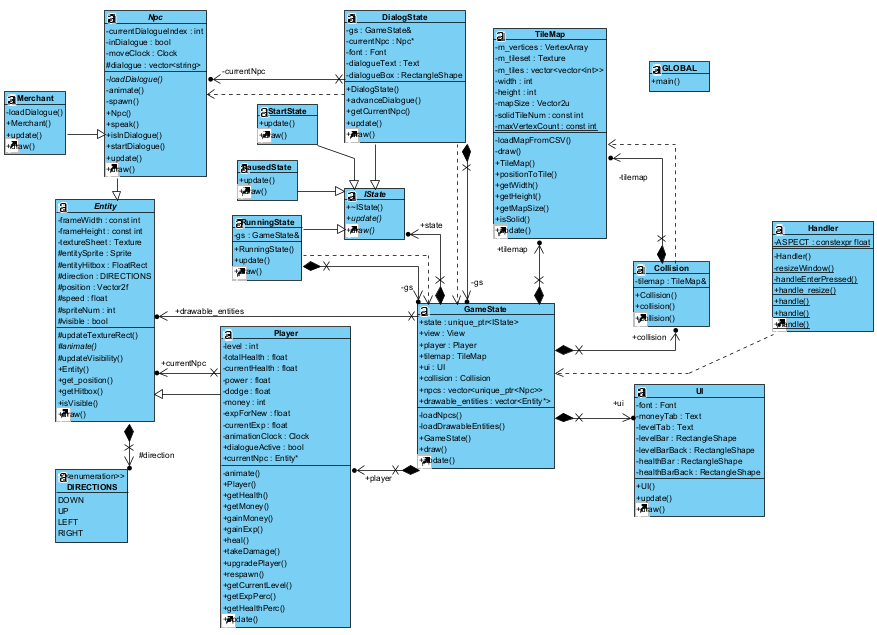
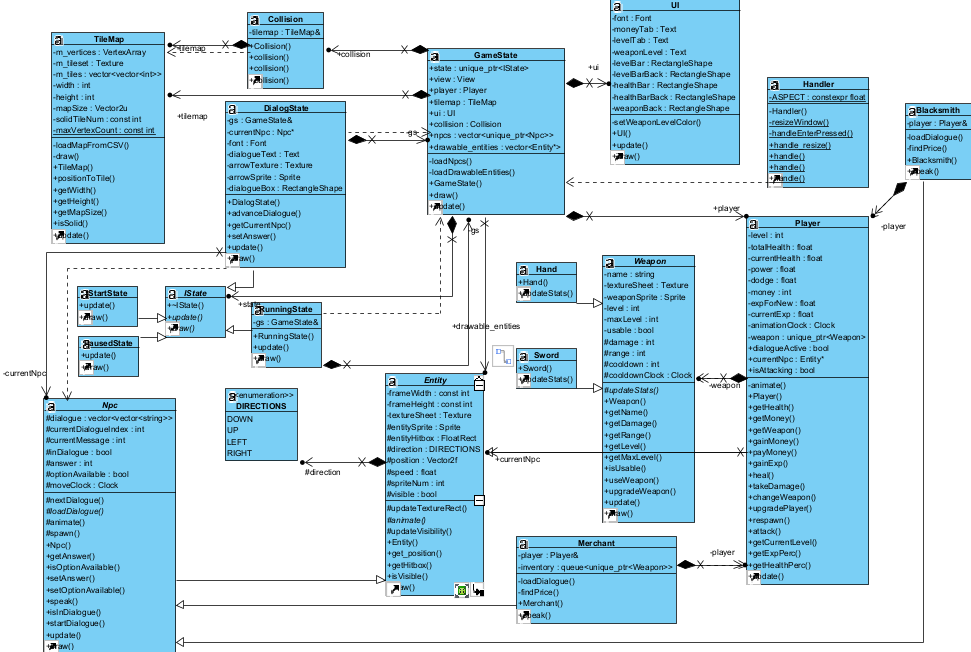
Project settings

diff --git a/src/entities/Merchant.cpp b/src/entities/Merchant.cpp
@@ -1,23 +1,48 @@
 #include "../../include/entities/Merchant.hpp"
 using namespace std;
 
+void Merchant::loadDialogue() {
+    dialogue = {
+        {
+            "Looking for deals?",
+            "I have the best weapons in town.",
+            "Come and visit me anytime!"
+        },
+        {
+            "Seems like you need a weapon.",
+            "Mh... let me see...",
+            "Here you go!",
+            "I have this " + inventory.front()->getName() + " for sale.",
+            "It costs ... coins.",
+            "What do you think?",
+            "- I'll take it!\n- No thanks."
+        }
+    };
+}
+
 string Merchant::speak() {
 
+    // Update the dialogue with the current price
     dialogue[1][4] = "It costs " + std::to_string(findPrice()) + " coins.";
 
+    // Check if the inventory is empty
     if(inventory.empty()) {
         inDialogue = false;
         return "Sorry, you caught me before the restock.";
     }
 
+    // Retrieve the current message
     string message = dialogue[currentMessage][currentDialogueIndex++];
 
+    // Check if the message is a dialogue option
     if(message.substr(0,1) == ("-"))
     {
         optionAvailable = true;
         switch (answer)
         {
         case 0:
+
+            // Shop logic
             if(player.getMoney() < 150) {
                 message = "You need " + to_string(150 - player.getMoney()) + " more coins!";
             } else {
@@ -28,7 +53,6 @@ string Merchant::speak() {
                 player.changeWeapon(std::unique_ptr<Weapon>(newWeapon));
                 if(!inventory.empty())
                     dialogue[currentMessage][3] = "I have this " + inventory.front()->getName() + " for sale.";
-
             }
             break;
 
@@ -51,11 +75,7 @@ string Merchant::speak() {
 
     answer = -1; // prevent early answer
 
-    if(currentDialogueIndex == dialogue[currentMessage].size())
-    {
-        inDialogue = false;
-        if(currentMessage < dialogue.size() - 1)
-            currentMessage++;
-    }
+    nextDialogue();
+    
     return message;
 }

diff --git a/src/entities/Blacksmith.cpp b/src/entities/Blacksmith.cpp
@@ -1,24 +1,46 @@
 #include "../../include/entities/Blacksmith.hpp"
 using namespace std;
 
+void Blacksmith::loadDialogue() {
+
+    dialogue = {
+        {
+            "Hey, traveler!",
+            "I can help you upgrade your weapons.",
+            "Just bring me some coins!"
+        },
+        {
+            "Do you need an upgrade?",
+            "It would cost you ... coins.",
+            "- Yes\n- No"
+        }
+    };
+}
+
 string Blacksmith::speak() {
 
-    dialogue[1][1] = "It would cost you " + std::to_string(findPrice()) + " coins.";
+    // Update the dialogue with the current price
+    dialogue[1][1] = "It would cost you " + to_string(findPrice()) + " coins.";
 
-    if(player.getWeapon()->getLevel() == 5)
+    // Check if the player's weapon is at max level
+    if(player.getWeapon()->getLevel() == player.getWeapon()->getMaxLevel())
     {
         inDialogue = false;
         return "Looks like you don't need me.";
     }
 
+    // Retrieve the current message
     string message = dialogue[currentMessage][currentDialogueIndex++];
 
+    // Check if the message is a dialogue option
     if(message.substr(0,1) == ("-"))
     {
         optionAvailable = true;
         switch (answer)
         {
         case 0:
+
+            // Logic for upgrading the weapon
             if(player.getMoney() < findPrice()) {
                 message = "You need " + to_string(findPrice() - player.getMoney()) + " more coins!";
             } else {
@@ -47,11 +69,7 @@ string Blacksmith::speak() {
 
     answer = -1; // prevent early answer
 
-    if(currentDialogueIndex == dialogue[currentMessage].size())
-    {
-        inDialogue = false;
-        if(currentMessage < dialogue.size() - 1)
-            currentMessage++;
-    }
+    nextDialogue();
+    
     return message;
 }

diff --git a/include/entities/Npc.hpp b/include/entities/Npc.hpp
@@ -10,9 +10,13 @@ class Npc : public Entity
     protected:
 
         // Dialogue
+        std::vector<std::vector<std::string>> dialogue;
         int currentDialogueIndex = 0;
         int currentMessage = 0;
         bool inDialogue = false;
+        int answer = 0;
+        bool optionAvailable = false;
+        void nextDialogue();
         virtual void loadDialogue() = 0;
         
         // Animation
@@ -21,10 +25,6 @@ class Npc : public Entity
         // Movement
         sf::Clock moveClock;
         void spawn(const TileMap&);
-        
-    protected:
-
-        std::vector<std::vector<std::string>> dialogue;
 
     public:
         
@@ -35,10 +35,15 @@ class Npc : public Entity
             spawn(tileMap); 
         }
 
-        // Dialogue
-        int answer = 0;
-        bool optionAvailable = false;
+        // Getters
+        const int getAnswer() const { return answer; }
+        bool isOptionAvailable() const { return optionAvailable; }
 
+        // Setters
+        void setAnswer(int newAnswer) { answer = newAnswer; }
+        void setOptionAvailable(bool available) { optionAvailable = available; }
+
+        // Dialogue
         virtual std::string speak();
         const bool isInDialogue() const { return inDialogue; }
         void startDialogue() { inDialogue = true; currentDialogueIndex = 0; }

diff --git a/src/states/DialogState.cpp b/src/states/DialogState.cpp
@@ -2,7 +2,7 @@
 using namespace sf;
 using namespace std;
 
-DialogState::DialogState(GameState& gameState, Npc* npc) : gs(gameState), currentNpc(npc), font("../../assets/fonts/arial.ttf"), dialogueText(font), arrowTexture("../../assets/ui/arrow.png"), arrowSprite(arrowTexture) {
+DialogState::DialogState(GameState& gameState, Npc* npc) : gs(gameState), currentNpc(npc), font("assets/fonts/arial.ttf"), dialogueText(font), arrowTexture("assets/ui/arrow.png"), arrowSprite(arrowTexture) {
 
     // Setup the dialogue text
     dialogueText.setCharacterSize(20);
@@ -49,12 +49,16 @@ void DialogState::draw(RenderWindow& window) const {
     gs.player.getWeapon()->draw(window);
     window.draw(dialogueBox);
     window.draw(dialogueText);
-    if(currentNpc->optionAvailable && currentNpc->answer >= 0)
+
+    // Draw the arrow sprite if the option is available and a valid answer is present
+    if(currentNpc->isOptionAvailable() && currentNpc->getAnswer() >= 0)
         window.draw(arrowSprite);
 }
 
 void DialogState::update() {
-    switch (currentNpc->answer)
+
+    // Update the arrow sprite position based on the possible answer
+    switch (currentNpc->getAnswer())
     {
     case 0:
         arrowSprite.setPosition({dialogueBox.getPosition().x - dialogueBox.getSize().x / 2.f + 20.f, dialogueBox.getPosition().y - 23.f});

diff --git a/include/entities/Blacksmith.hpp b/include/entities/Blacksmith.hpp
@@ -7,26 +7,14 @@ class Blacksmith : public Npc
 
         Player& player;
 
-        void loadDialogue() override {
-            dialogue = {
-                {
-                    "Hey, traveler!",
-                    "I can help you upgrade your weapons.",
-                    "Just bring me some coins!"
-                },
-                {
-                    "Do you need an upgrade?",
-                    "It would cost you " + std::to_string(findPrice()) + " coins.",
-                    "- Yes\n- No"
-                }
-            };
-        }
+        void loadDialogue() override;
 
-        int findPrice() {
+        const int findPrice() const {
             return player.getWeapon()->getLevel() * 50;
         }
 
     public:
+    
         Blacksmith(const std::filesystem::path& textureFile, const int frameWidth, const int frameHeight, const TileMap& tileMap, Player& player)
         : Npc(textureFile, frameWidth, frameHeight, tileMap), player(player) {
             loadDialogue();

diff --git a/include/entities/Merchant.hpp b/include/entities/Merchant.hpp
@@ -10,24 +10,7 @@ class Merchant : public Npc
         Player& player;
         std::queue<std::unique_ptr<Weapon>> inventory;
 
-        void loadDialogue() override {
-            dialogue = {
-                {
-                    "Looking for deals?",
-                    "I have the best weapons in town.",
-                    "Come and visit me anytime!"
-                },
-                {
-                    "Seems like you need a weapon.",
-                    "Mh... let me see...",
-                    "Here you go!",
-                    "I have this " + inventory.front()->getName() + " for sale.",
-                    "It costs " + std::to_string(findPrice()) + " coins.",
-                    "What do you think?",
-                    "- I'll take it!\n- No thanks."
-                }
-            };
-        }
+        void loadDialogue() override;
 
         int findPrice() {
             return 150 - (player.getWeapon()->getLevel()*10);

diff --git a/src/UI.cpp b/src/UI.cpp
@@ -2,7 +2,7 @@
 using namespace sf;
 using namespace std;
 
-UI::UI() : font("../../assets/fonts/arial.ttf"), moneyTab(font), levelTab(font), weaponLevel(font)
+UI::UI() : font("assets/fonts/arial.ttf"), moneyTab(font), levelTab(font), weaponLevel(font)
 {
     
     // Prepare the money text
@@ -104,23 +104,23 @@ void UI::setWeaponLevelColor(const int level) {
     
     switch (level)
     {
-    case 2:
+    case 2: // Gold
         weaponLevel.setFillColor(Color(255, 215, 0));
         break;
 
-    case 3:
+    case 3: // Amethyst
         weaponLevel.setFillColor(Color(153, 102, 204));
         break;
 
-    case 4:
+    case 4: // Diamond
         weaponLevel.setFillColor(Color(78, 226, 236));
         break;
 
-    case 5:
+    case 5: // Obsidian
         weaponLevel.setFillColor(Color(49, 41, 42));
         break;
 
-    default: // 1
+    default: // Bronze
         weaponLevel.setFillColor(Color(205, 127, 50));
         break;
     }

diff --git a/src/entities/Npc.cpp b/src/entities/Npc.cpp
@@ -1,4 +1,4 @@
-#include "../include/entities/Npc.hpp"
+#include "../../include/entities/Npc.hpp"
 using namespace std;
 using namespace sf;
 
@@ -65,12 +65,16 @@ void Npc::update(const Collision& collision, const sf::View& view, const FloatRe
 string Npc::speak() { 
 
     string message = dialogue[currentMessage][currentDialogueIndex++];
+    nextDialogue();
+    return message;
+    
+}
+
+void Npc::nextDialogue() {
     if(currentDialogueIndex == dialogue[currentMessage].size())
     {
         inDialogue = false;
         if(currentMessage < dialogue.size() - 1)
             currentMessage++;
     }
-    return message;
-    
 }

diff --git a/include/GameState.hpp b/include/GameState.hpp
@@ -38,7 +38,7 @@ class GameState
         std::vector<Entity*> drawable_entities;
 
         GameState(std::unique_ptr<IState> init)
-            : state(std::move(init)), player(), tilemap("../../assets/maps/map1.png", "../../assets/maps/map1.csv", 5), 
+            : state(std::move(init)), player(), tilemap("assets/maps/map1.png", "assets/maps/map1.csv", 5), 
               view({0,0},{SCREEN_WIDTH, SCREEN_HEIGHT}), ui(), collision(tilemap)
                 { 
                     tilemap.update(view);

diff --git a/include/weapons/Weapon.hpp b/include/weapons/Weapon.hpp
@@ -42,10 +42,12 @@ class Weapon {
         const int getDamage() const { return damage; }
         const int getRange() const { return range; }
         const int getLevel() const { return level; }
+        const int getMaxLevel() const { return maxLevel; }
         bool isUsable() const { return usable; }
 
         void useWeapon();
 
+        // Update stats and appearance
         void upgradeWeapon() {
             if(level < maxLevel) {
                 level++;

diff --git a/src/weapons/Weapon.cpp b/src/weapons/Weapon.cpp
@@ -10,6 +10,8 @@ void Weapon::useWeapon() {
 }
 
 void Weapon::update() {
+
+    // Update based on the cooldown state
     if (!usable && cooldownClock.getElapsedTime().asMilliseconds() >= cooldown) {
         weaponSprite.setTextureRect(sf::IntRect({weaponSprite.getTextureRect().position.x + static_cast<int>(TILE_SIZE), weaponSprite.getTextureRect().position.y}, {TILE_SIZE, TILE_SIZE}));
         usable = true;

diff --git a/include/states/DialogState.hpp b/include/states/DialogState.hpp
@@ -24,7 +24,7 @@ class DialogState : public IState {
         void advanceDialogue();
         Npc* getCurrentNpc() const { return currentNpc; }
 
-        void setAnswer() { currentNpc->answer = (currentNpc->answer+1) % 2; }
+        void setAnswer() const { currentNpc->setAnswer((currentNpc->getAnswer()+1) % 2); }
 
         void update() override;
         void draw(sf::RenderWindow&) const override;
